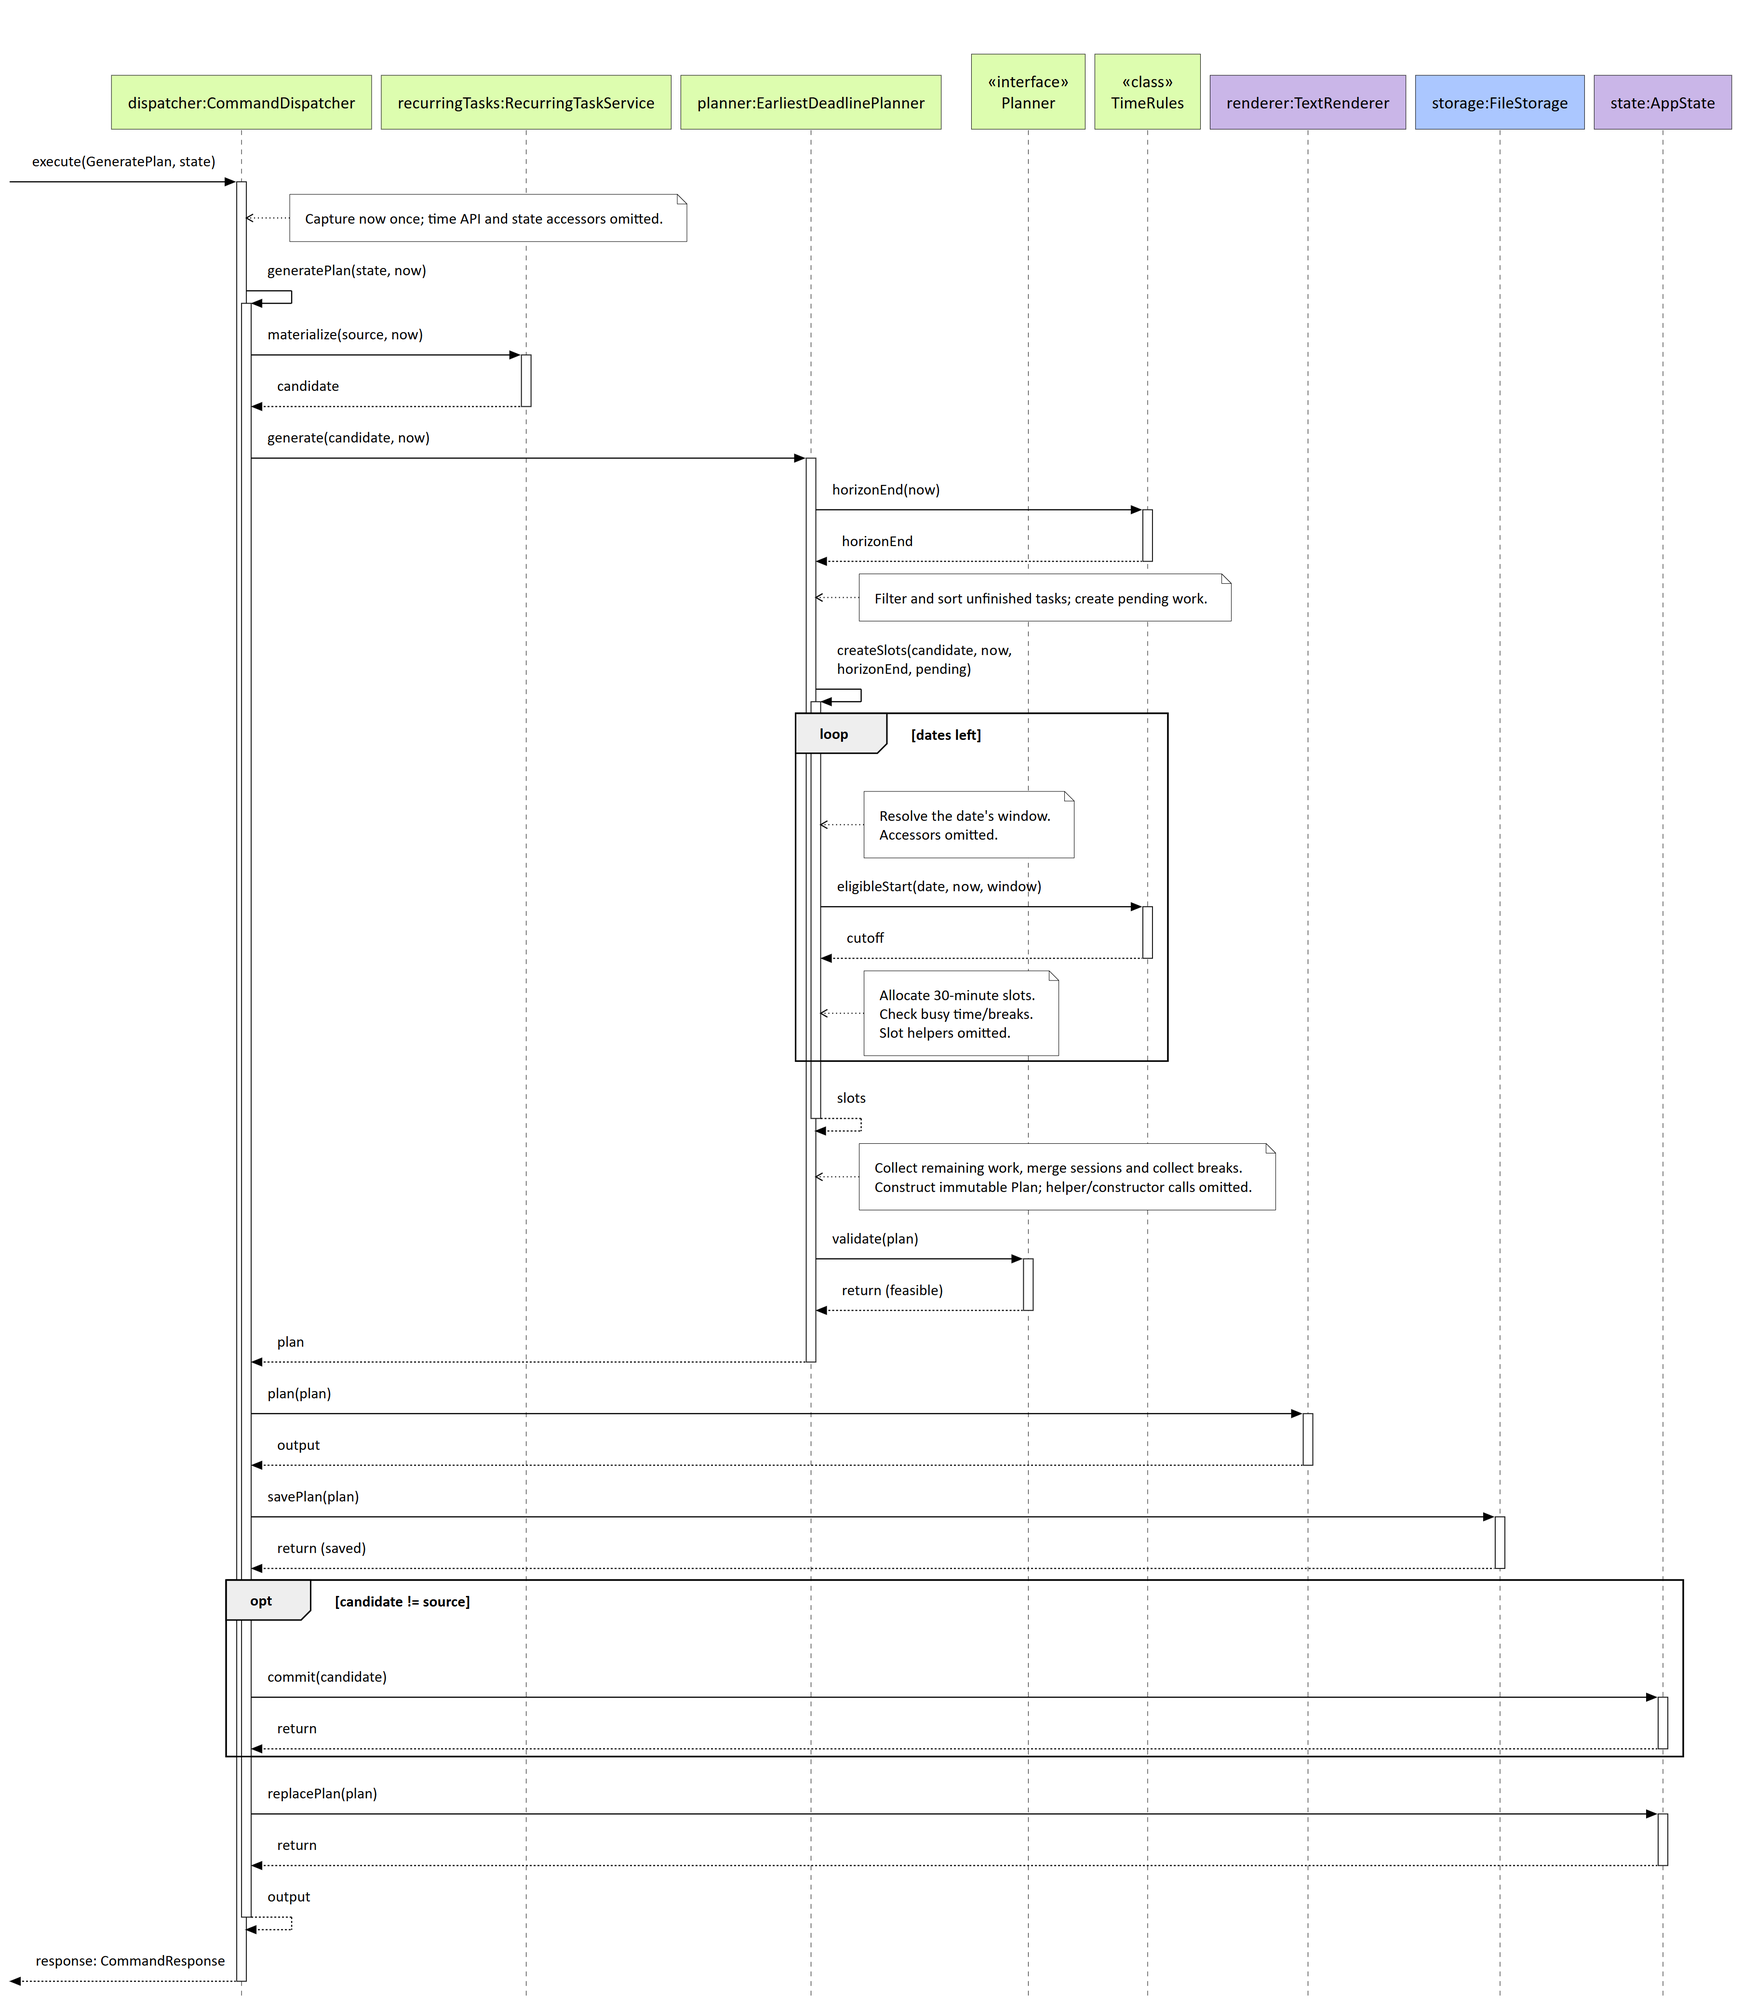
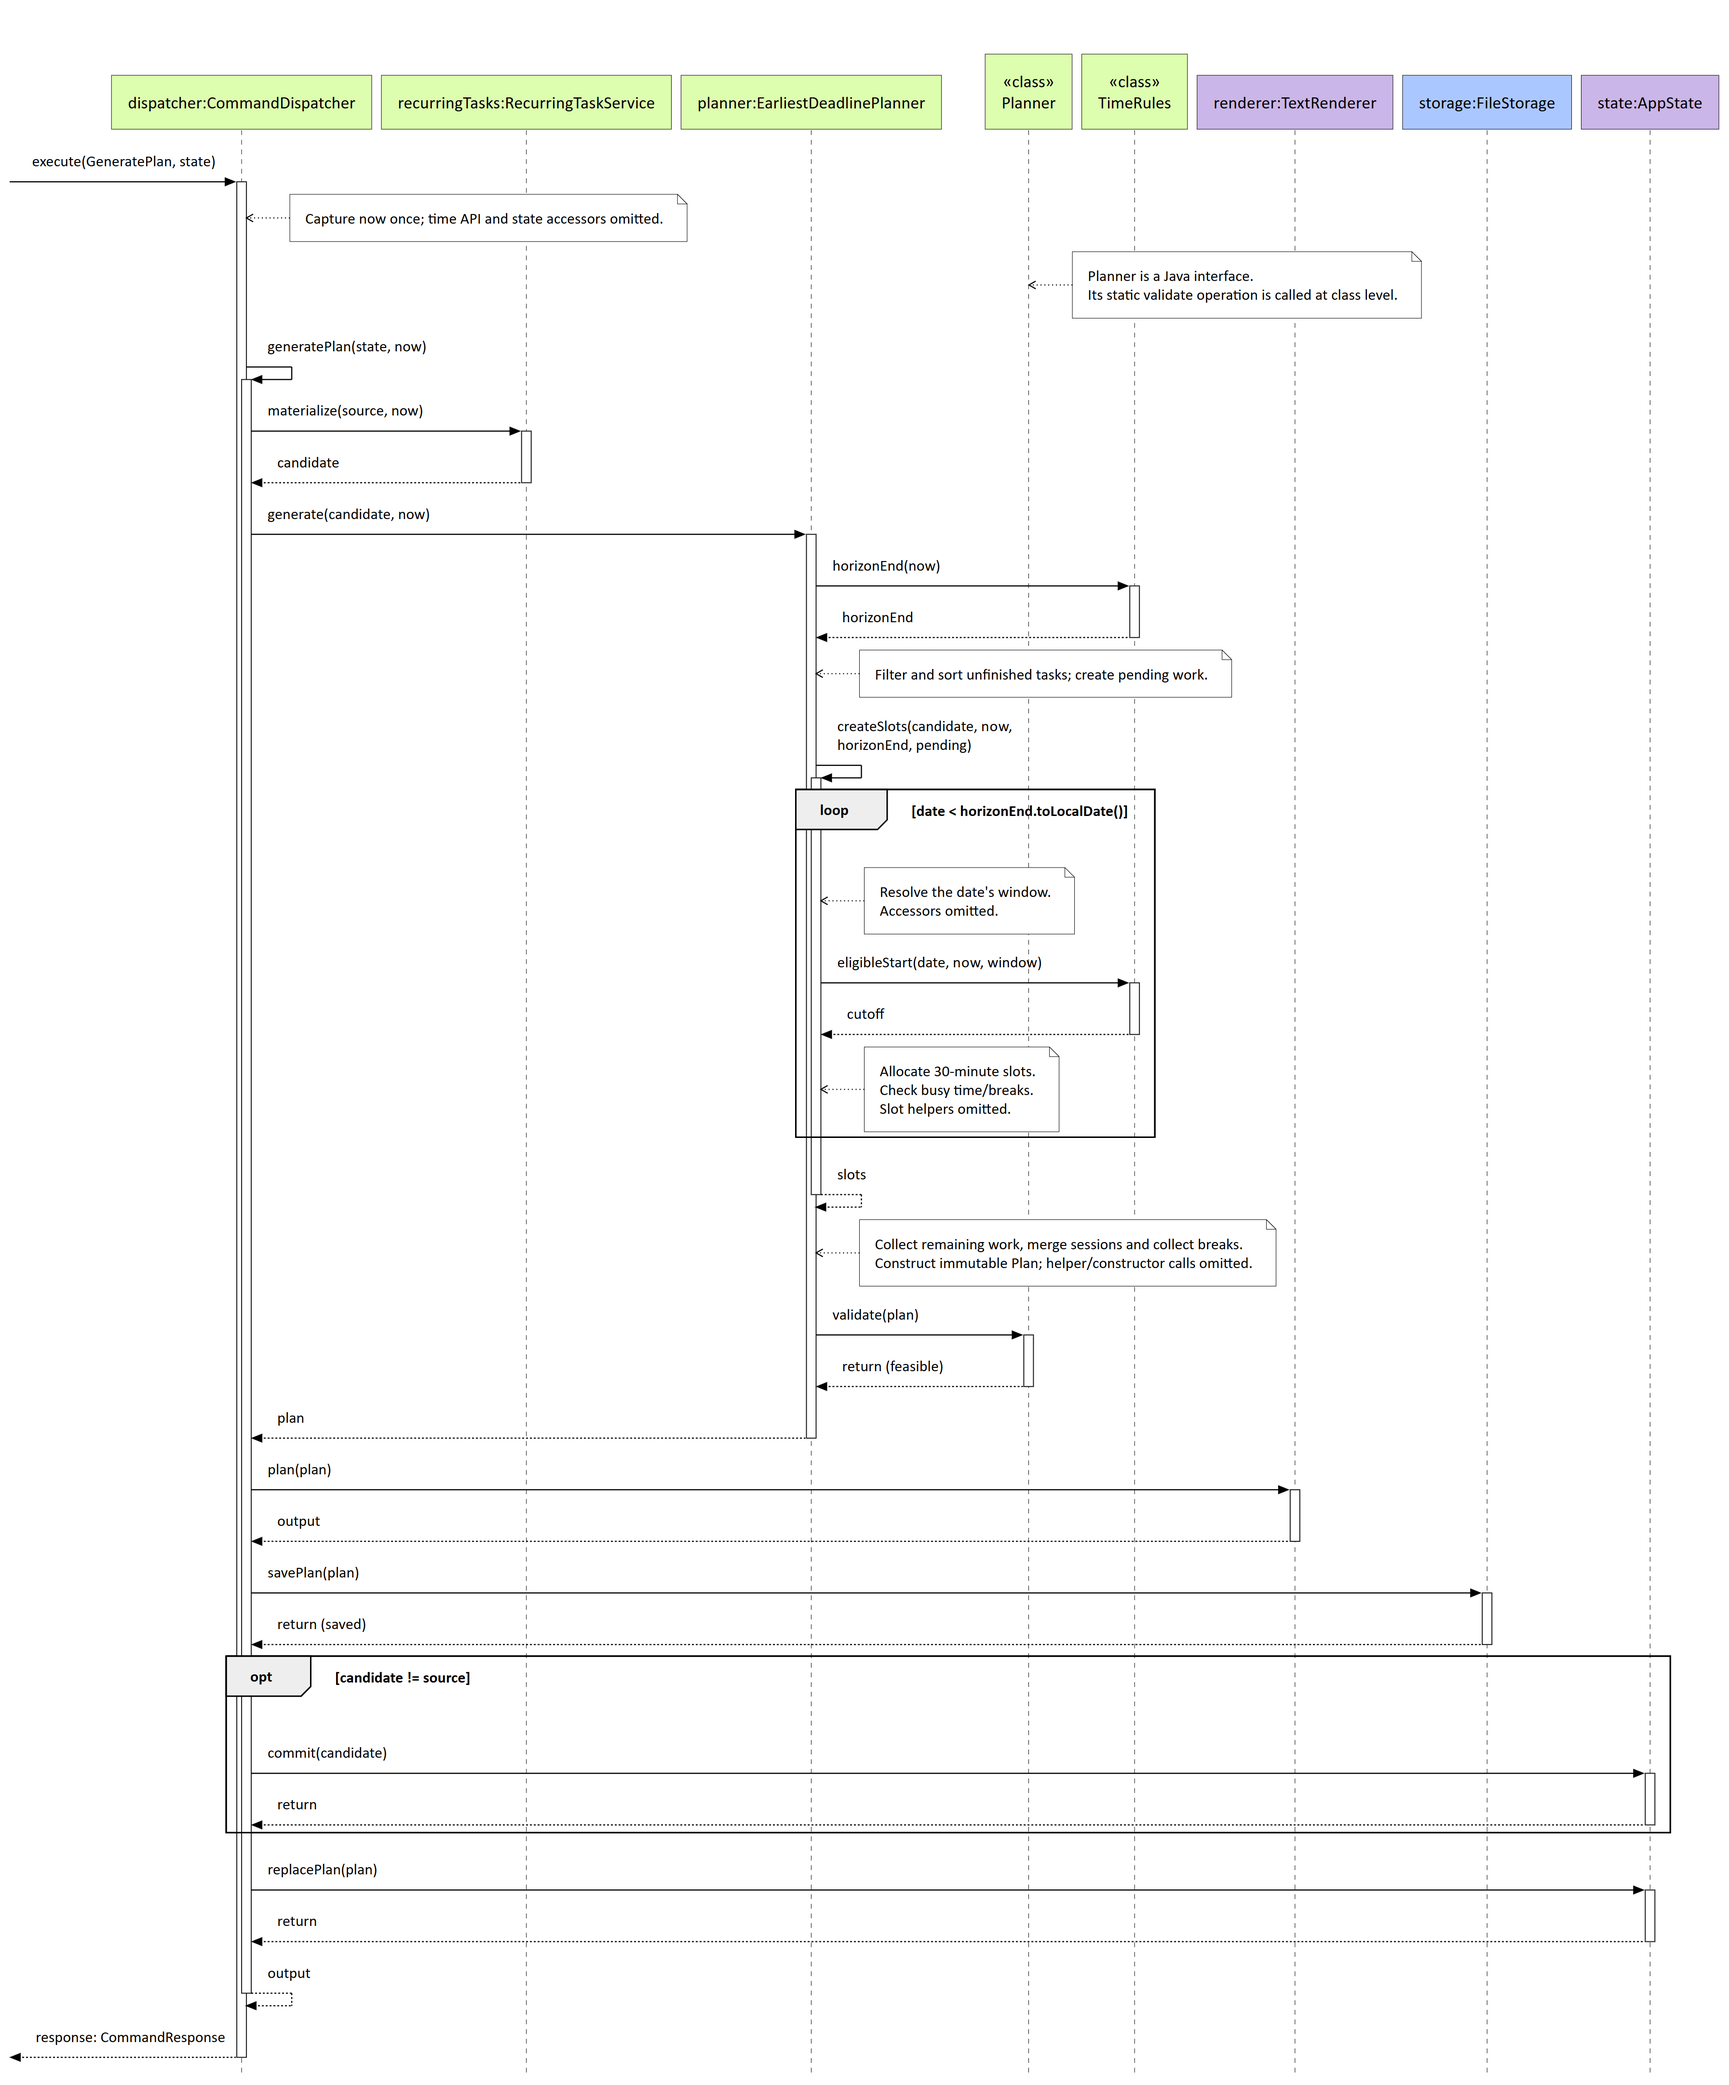
Align planning UML with the course reference sheet
The planning views omit useful class details and identify the static
validator as an interface lifeline rather than a class-level participant.

Show operation signatures, member visibility, static members and the
optional constructor-policy association. Use a plain dashed note connector
and clarify sequence guards and class-level validation. Regenerate both
SVG and PNG pairs and explain the notation and simplifications in the DG.

Review against the supplied UML reference sheet and actual source calls.
Java 25 build, Checkstyle, 12 runner tests and 34 UI scenarios pass.
The User Guide needs no change because commands and behavior are unchanged.

diff --git a/docs/DeveloperGuide.md b/docs/DeveloperGuide.md
@@ -296,6 +296,14 @@ The class view focuses on the planner and daily schedule projection boundaries.
 `Snapshot` is the aggregate owned by the persistence component. Arrows show
 dependencies or contained results, not ownership of those external types.
 
+The class view follows the UML Reference Sheet's operation/attribute visibility,
+dashed dependency and realization arrows, navigable associations, role names and
+multiplicities. Underlined members are static; `<<record>>` identifies Java record
+classes. The planner's optional policy association represents its constructor
+fallback, while the snapshot's policy is the saved setting. Shared immutable
+records use associations rather than exclusive-lifetime composition. Only selected
+members and the window-aware `eligibleStart` overload are shown.
+
 ![Planning and schedule projection classes](images/gabriel-planning-classes.svg)
 
 **Figure 5. Planning and schedule projection structure.**
@@ -322,6 +330,11 @@ The sequence view follows a successful `plan` command from time capture through
 plan publication. The planner obtains the horizon, resolves the daily cutoff
 for each date, and evaluates half-hour slots. `TimeRules` is a class participant
 because its methods are static; its internal horizon checks are omitted.
+The `Planner` interface is also shown as a `<<class>>` participant for its static
+`validate` call, following the reference sheet's class-level message notation.
+Ordinary participants use `name:Class` labels. Solid calls, dashed returns,
+nested self-call activations and bracketed `loop`/`opt` guards show the successful
+path. Exception paths and local helper calls remain omitted.
 The dispatcher renders and saves the plan before publishing the candidate
 snapshot and current plan.
 
